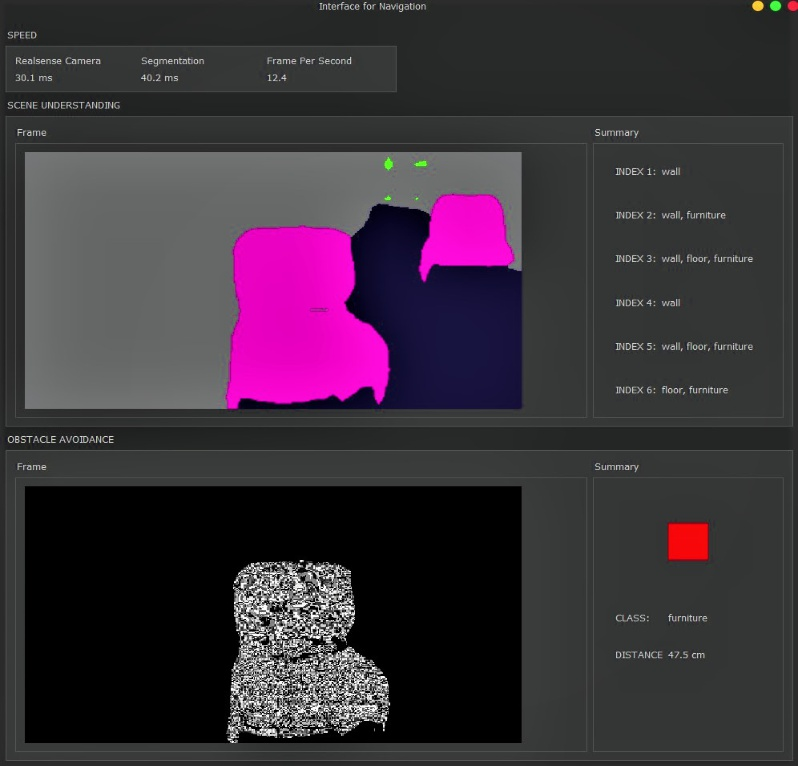
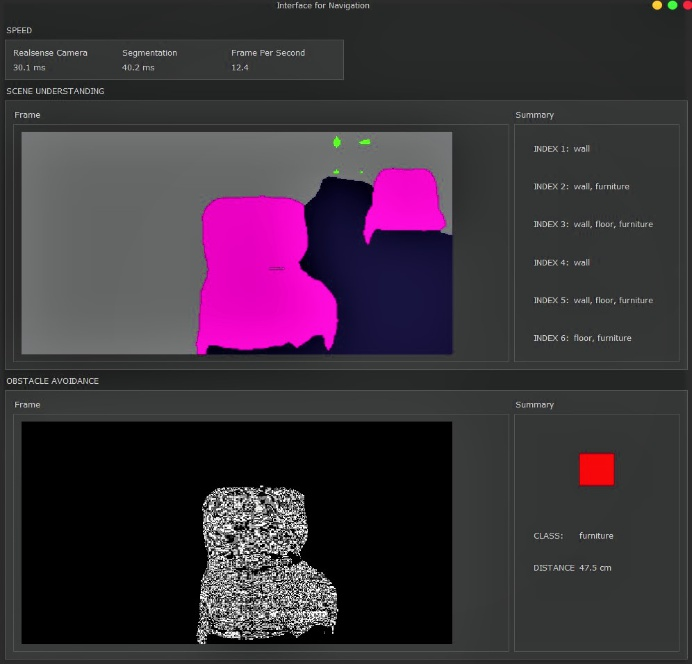
.

diff --git a/README.md b/README.md
@@ -8,7 +8,9 @@ This is a capstone group project of my master degree. We developed a Deep learni
 2. A **scene understanding module** for summarising spatial scene into grid of objects  
 3. An **Obstacle avoidance module** for detection of closest obstacle  
 
+<p align="center">
 ![Interface](results/cover.jpg)
+</p>
 
 <p align="right">
 <sub>(Interface Preview)</sub>
